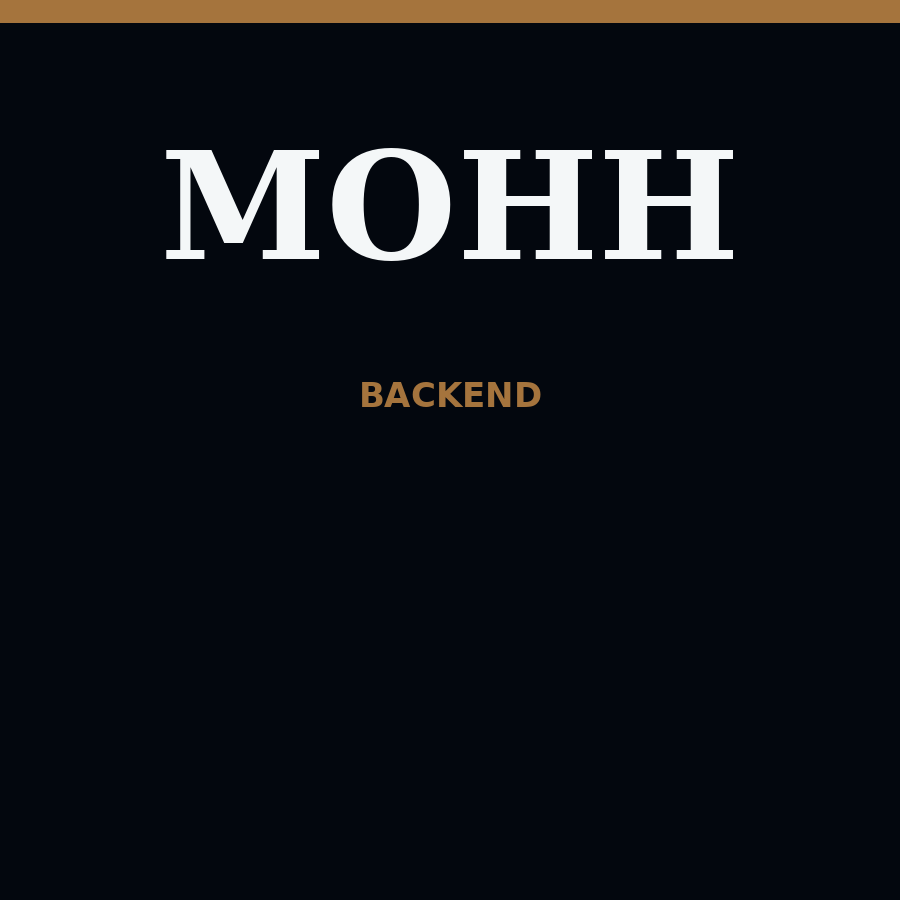
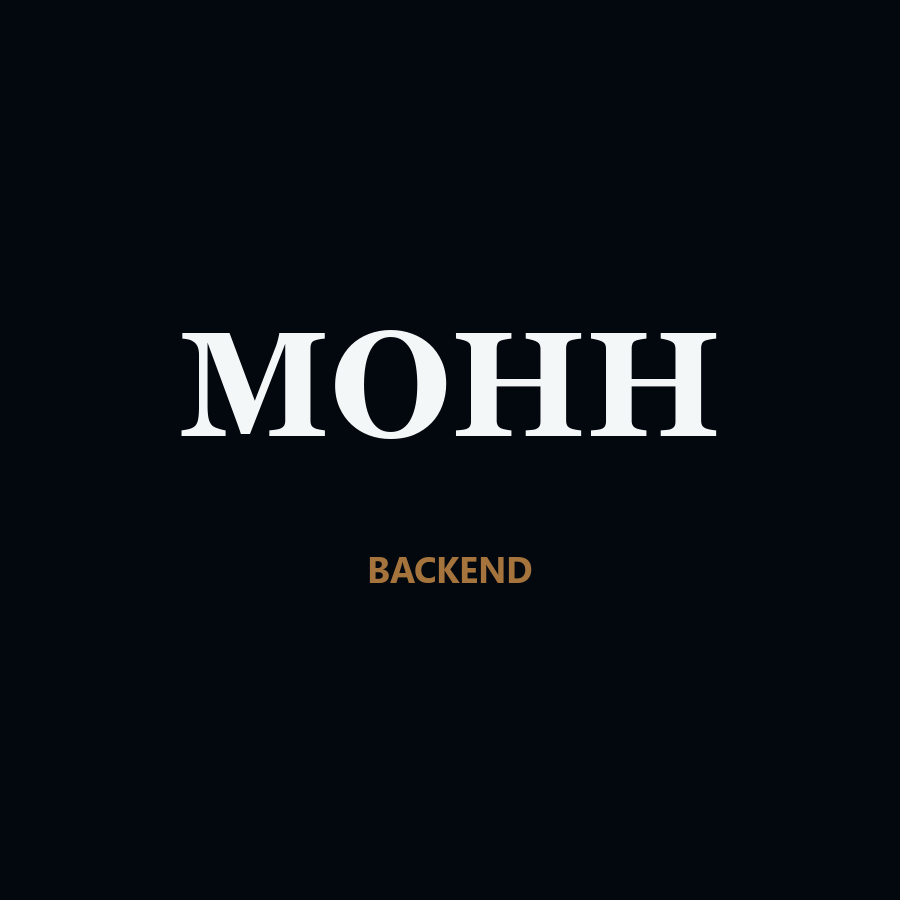
Keep the profile photo fully visible in a square frame, and include the project artwork and APK workflow.

diff --git a/src/screens/AboutScreen.tsx b/src/screens/AboutScreen.tsx
@@ -1,4 +1,5 @@
-import { Image, Linking, Pressable, StyleSheet, Text, View } from 'react-native';
+import { Linking, Pressable, StyleSheet, Text, View } from 'react-native';
+import { FramedImage } from '../components/FramedImage';
 import { Screen } from '../components/Screen';
 import { SectionHeading } from '../components/SectionHeading';
 import { useProfile } from '../context/ProfileContext';
@@ -25,10 +26,10 @@ export function AboutScreen() {
       <View style={styles.cardPreview}>
         <Text style={styles.label}>Verification card preview</Text>
         {profile.verificationCardUri ? (
-          <Image
+          <FramedImage
             source={{ uri: profile.verificationCardUri }}
-            style={styles.cardImage}
-            accessibilityLabel="Verification card image preview"
+            aspectRatio={4 / 3}
+            label="Verification card image preview"
           />
         ) : (
           <View style={styles.emptyCard}>
@@ -103,12 +104,6 @@ const styles = StyleSheet.create({
   },
   cardPreview: {
     gap: spacing.sm,
-  },
-  cardImage: {
-    width: '100%',
-    aspectRatio: 4 / 3,
-    borderRadius: 16,
-    backgroundColor: colors.line,
   },
   emptyCard: {
     borderRadius: 16,

diff --git a/src/screens/HomeScreen.tsx b/src/screens/HomeScreen.tsx
@@ -1,4 +1,5 @@
-import { Image, StyleSheet, Text, View } from 'react-native';
+import { StyleSheet, Text, View } from 'react-native';
+import { FramedImage } from '../components/FramedImage';
 import { OfflineNote } from '../components/OfflineNote';
 import { Screen } from '../components/Screen';
 import { useProfile } from '../context/ProfileContext';
@@ -14,7 +15,7 @@ export function HomeScreen() {
     <Screen>
       <Text style={styles.introduction}>{student.introduction}</Text>
       <View style={styles.hero}>
-        <Image source={portrait} style={styles.portrait} accessibilityLabel="Profile image" />
+        <FramedImage source={portrait} aspectRatio={1} label="Profile image" />
         <View style={styles.heroCopy}>
           <Text style={styles.appName}>{student.appName}</Text>
           <Text style={styles.headline}>{profile.headline}</Text>
@@ -54,12 +55,6 @@ const styles = StyleSheet.create({
     borderRadius: 22,
     padding: spacing.md,
     gap: spacing.md,
-  },
-  portrait: {
-    width: '100%',
-    aspectRatio: 1.55,
-    borderRadius: 16,
-    backgroundColor: colors.olive,
   },
   heroCopy: {
     gap: spacing.sm,

diff --git a/src/components/ImageSlot.tsx b/src/components/ImageSlot.tsx
@@ -1,5 +1,6 @@
-import { Image, ImageSourcePropType, Pressable, StyleSheet, Text, View } from 'react-native';
+import { ImageSourcePropType, Pressable, StyleSheet, Text, View } from 'react-native';
 import { colors, spacing } from '../theme/colors';
+import { FramedImage } from './FramedImage';
 
 type ImageSlotProps = {
   title: string;
@@ -30,7 +31,7 @@ export function ImageSlot({
     <View style={styles.wrap}>
       <Text style={styles.title}>{title}</Text>
       {source ? (
-        <Image source={source} style={[styles.preview, { aspectRatio }]} accessibilityLabel={`${title} preview`} />
+        <FramedImage source={source} aspectRatio={aspectRatio} label={`${title} preview`} />
       ) : (
         <View style={[styles.empty, { aspectRatio }]}>
           <Text style={styles.emptyText}>{emptyText}</Text>
@@ -72,11 +73,6 @@ const styles = StyleSheet.create({
     color: colors.ink,
     fontSize: 18,
     fontWeight: '700',
-  },
-  preview: {
-    width: '100%',
-    borderRadius: 12,
-    backgroundColor: colors.oliveSoft,
   },
   empty: {
     width: '100%',

diff --git a/src/components/FramedImage.tsx b/src/components/FramedImage.tsx
@@ -1,0 +1,42 @@
+import { Image, ImageSourcePropType, StyleSheet, View } from 'react-native';
+import { colors } from '../theme/colors';
+
+type FramedImageProps = {
+  source: ImageSourcePropType;
+  aspectRatio: number;
+  label: string;
+};
+
+export function FramedImage({ source, aspectRatio, label }: FramedImageProps) {
+  return (
+    <View style={[styles.frame, { aspectRatio }]}>
+      <View style={styles.clip}>
+        <Image source={source} style={styles.image} resizeMode="cover" accessibilityLabel={label} />
+      </View>
+    </View>
+  );
+}
+
+const styles = StyleSheet.create({
+  frame: {
+    width: '100%',
+    borderRadius: 20,
+    borderWidth: 2,
+    borderColor: colors.terracotta,
+    backgroundColor: colors.deep,
+  },
+  clip: {
+    position: 'absolute',
+    top: 3,
+    right: 3,
+    bottom: 3,
+    left: 3,
+    borderRadius: 15,
+    overflow: 'hidden',
+    backgroundColor: colors.oliveSoft,
+  },
+  image: {
+    width: '100%',
+    height: '100%',
+  },
+});

diff --git a/src/storage/profileStorage.ts b/src/storage/profileStorage.ts
@@ -80,8 +80,16 @@ export async function copyIntoAppStorage(sourceUri: string, fileName: string): P
   if (!existing.exists) {
     await FileSystem.makeDirectoryAsync(folder, { intermediates: true });
   }
-  const destination = `${folder}${fileName}`;
-  await FileSystem.deleteAsync(destination, { idempotent: true });
+  const dot = fileName.lastIndexOf('.');
+  const stem = dot > 0 ? fileName.slice(0, dot) : fileName;
+  const extension = dot > 0 ? fileName.slice(dot) : '';
+  const names = await FileSystem.readDirectoryAsync(folder);
+  await Promise.all(
+    names
+      .filter((name) => name === fileName || name.startsWith(`${stem}-`))
+      .map((name) => FileSystem.deleteAsync(`${folder}${name}`, { idempotent: true })),
+  );
+  const destination = `${folder}${stem}-${Date.now()}${extension}`;
   await FileSystem.copyAsync({ from: sourceUri, to: destination });
   return destination;
 }

diff --git a/scripts/make_assets.py b/scripts/make_assets.py
@@ -5,10 +5,28 @@ from pathlib import Path
 
 from PIL import Image, ImageDraw, ImageFont
 
-ROOT = Path("/home/muhammad/Downloads/Uni/Individual_app/assets")
-SERIF = "/usr/share/fonts/truetype/dejavu/DejaVuSerif-Bold.ttf"
-SANS = "/usr/share/fonts/truetype/dejavu/DejaVuSans-Bold.ttf"
-SANS_REG = "/usr/share/fonts/truetype/dejavu/DejaVuSans.ttf"
+ROOT = Path(__file__).resolve().parents[1] / "assets"
+
+
+def first_existing(*paths: str) -> str:
+    for path in paths:
+        if Path(path).exists():
+            return path
+    raise FileNotFoundError("None of the expected fonts were found.")
+
+
+SERIF = first_existing(
+    "/usr/share/fonts/truetype/dejavu/DejaVuSerif-Bold.ttf",
+    r"C:\Windows\Fonts\georgiab.ttf",
+)
+SANS = first_existing(
+    "/usr/share/fonts/truetype/dejavu/DejaVuSans-Bold.ttf",
+    r"C:\Windows\Fonts\segoeuib.ttf",
+)
+SANS_REG = first_existing(
+    "/usr/share/fonts/truetype/dejavu/DejaVuSans.ttf",
+    r"C:\Windows\Fonts\segoeui.ttf",
+)
 
 INK = (3, 7, 14, 255)
 PAPER = (3, 7, 14, 255)
@@ -65,9 +83,8 @@ def avatar() -> Image.Image:
     size = 900
     image = Image.new("RGBA", (size, size), INK)
     draw = ImageDraw.Draw(image)
-    draw.rectangle((0, 0, size, 22), fill=TERRACOTTA)
-    centered(draw, "MOHH", font(SERIF, 150), (40, 70, size - 40, 340), CREAM)
-    centered(draw, "BACKEND", font(SANS, 34), (40, 340, size - 40, 450), TERRACOTTA)
+    centered(draw, "MOHH", font(SERIF, 148), (48, 250, size - 48, 520), CREAM)
+    centered(draw, "BACKEND", font(SANS, 36), (48, 500, size - 48, 640), TERRACOTTA)
     return image
 
 
